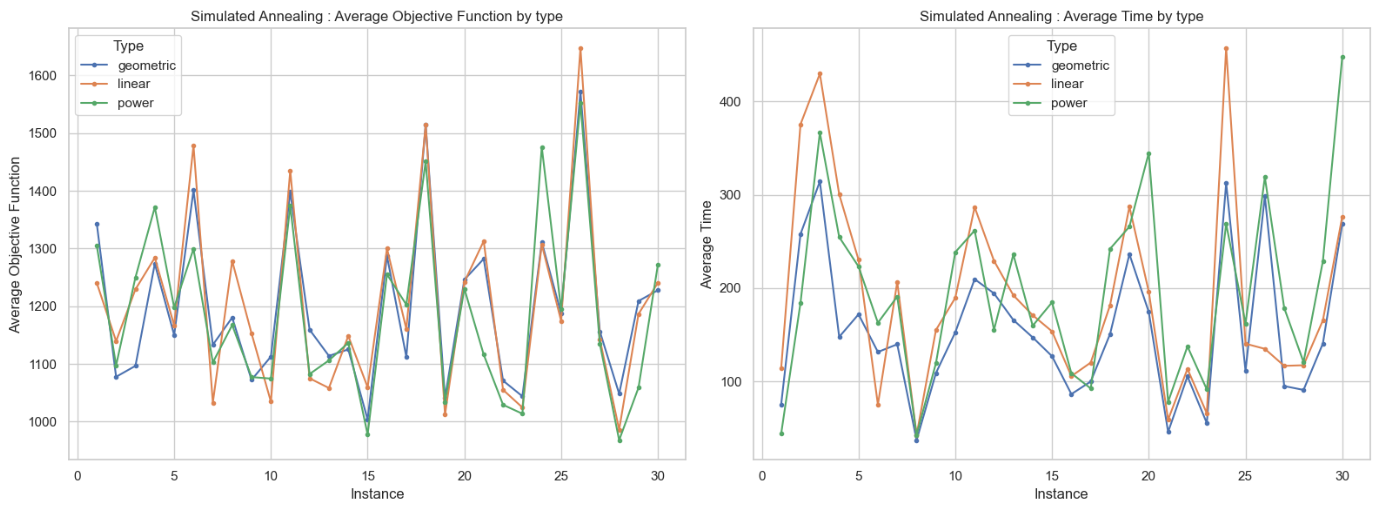
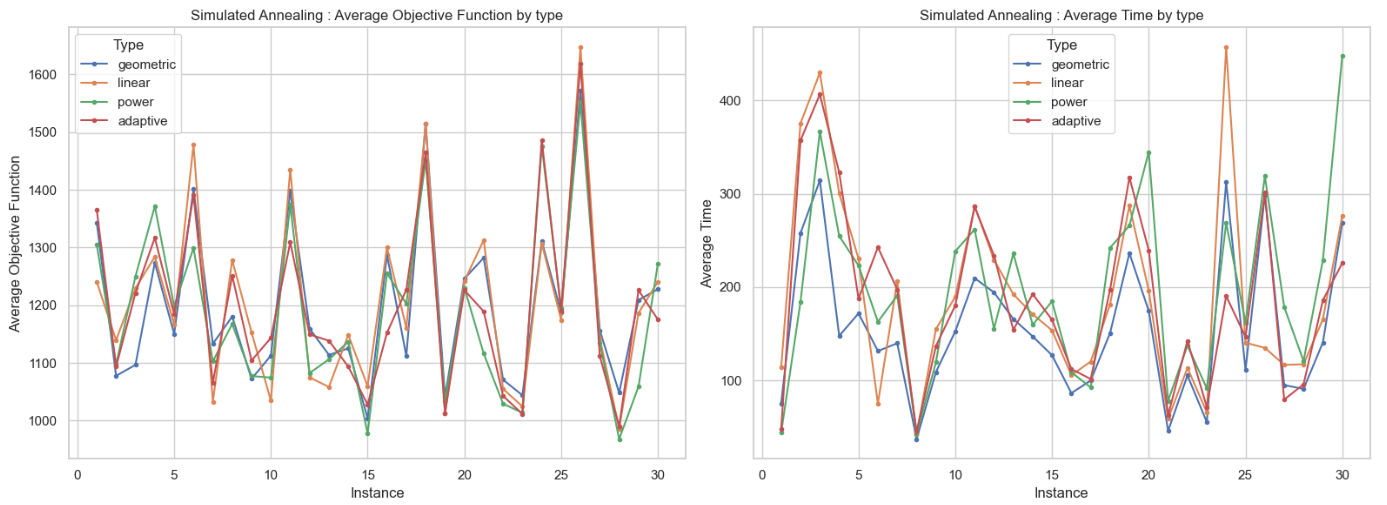
report new plots

diff --git a/Report 1/Report 1 - Group 3.tex b/Report 1/Report 1 - Group 3.tex
@@ -105,7 +105,9 @@ where $\rho$ controls the trade-off between efficiency and fairness.
 
 \subsection{Experimental Setup}
 
-All experiments were made on a machine with a AMD Ryzen 7 9800X3D and 32 RAM, running Windows 11 and Python 3.13.9.
+The experiments of instances with 50 customers for SA algorithm with different cooling strategies we made on machine with a AMD Ryzen 5 3500U and 8 RAM, running Windows 10 and Python 3.13.9. 
+
+All other experiments were made on a machine with a AMD Ryzen 7 9800X3D and 32 RAM, running Windows 11 and Python 3.13.9.
 
 We tested every algortihm on all of the instances with size 50 and 100. For every non-deterministic algorithm we made at least three runs in order to increase the significance of the results.
 
@@ -494,6 +496,13 @@ As it was with the local search, the variable neighborhood descent also performs
 
 The greedy randomized adaptive search procedure uses the randomized construction heuristic internally and has a fixed number of iterations without improvement as the stopping criteria. For improving on the received solution from the construction this algorithm uses variable neighborhood descent with its chosen default values.
 
+\begin{figure}[H]
+    \centering
+    \includegraphics[width=\linewidth]{graphics/comparison_grasp_vnd.png}
+    \caption{GRASP vs VND: Average Objective Function and Run Time for 100 customers}
+    \label{fig:comparison_grasp_vnd}
+\end{figure}
+
 \subsection{Simulated Annealing}
 
 The algorithm includes a neighborhood search for the customer swap, probabilistic controlled acceptance of worse solutions based on temperature, and several cooling schedules.
@@ -622,6 +631,32 @@ The SA loop terminates when any of the following conditions is met:
     \item No improvement has been observed for several temperature levels (predefined for the experiments by 8).
 \end{itemize}
 
+\subsubsection{Runtime}
+
+\[
+\textbf{Outer loop iterations}=O(I), \text{where } I =  max\_iters
+\]
+
+\[
+\textbf{Equilibrium Loop}=O(n^2), \text{where } n=number of customers
+\]
+
+\[
+\textbf{Select 2 random customers}=O(1)
+\]
+
+\[
+\textbf{Best insertion cost}=O(L^2), \text{where L is path length in worst case } L\approx n
+\]
+
+\[
+\textbf{Select 2 random customers}=O(1)
+\]
+
+\[
+\textbf{Total Runtime}=O(I n^4)
+\]
+
 \subsubsection{Best Solution Tracking}
 
 Throughout the search, the algorithm maintains the best feasible solution found.
@@ -675,17 +710,71 @@ For the comparison of all algorithms we chose the best configuration for each al
     \label{fig:all_algorithms_1_100}
 \end{figure}
 
-\section{Experimental Setup}
+\subsection{Fairness and Objective by Iterations}
 
-\paragraph{Hardware for comparison of all algorithms (50, 100 customers)}
+In Figures ~\ref{fig:f_obj_c}, ~\ref{fig:f_obj_rc}, ~\ref{fig:f_obj_ps}, ~\ref{fig:f_obj_ls}, ~\ref{fig:f_obj_vnd}, ~\ref{fig:f_obj_grasp}, ~\ref{fig:f_obj_sa}  the changes in fairness and objective values for instance 48 from the training set are displayed.
 
-\paragraph{Hardware for comparison of different cooling structures for SA (50 customers) }
+\subsubsection{Deterministic Construction Heuristic}
 
-\begin{itemize}
-    \item \textbf{Processor:} AMD Ryzen 5 3500U with Radeon Vega Mobile Graphics (8 cores), approximately 2.1 GHz
-    \item \textbf{Memory:} 8 GB RAM
-    \item \textbf{Operating System:} Windows 10 Pro 64-bit (Build 19045)
-    \item \textbf{DirectX Version:} DirectX 12
-\end{itemize}
+\begin{figure}[H]
+    \centering
+    \includegraphics[width=\linewidth]{graphics/f_obj_c.png}
+    \caption{Deterministic Construction Heuristic: Fairness and Objective by Iterations}
+    \label{fig:f_obj_c}
+\end{figure}
+
+\subsubsection{Randomized Construction Heuristic}
+
+\begin{figure}[H]
+    \centering
+    \includegraphics[width=\linewidth]{graphics/f_obj_rc.png}
+    \caption{Randomized Construction Heuristic: Fairness and Objective by Iterations}
+    \label{fig:f_obj_rc}
+\end{figure}
+
+\subsubsection{Pilot Search}
+
+\begin{figure}[H]
+    \centering
+    \includegraphics[width=\linewidth]{graphics/f_obj_ps.png}
+    \caption{Pilot Search: Fairness and Objective by Iterations}
+    \label{fig:f_obj_ps}
+\end{figure}
+
+\subsubsection{Local Search}
+
+\begin{figure}[H]
+    \centering
+    \includegraphics[width=\linewidth]{graphics/f_obj_ls.png}
+    \caption{Local Search: Fairness and Objective by Iterations}
+    \label{fig:f_obj_ls}
+\end{figure}
+
+\subsection{Variable Neighborhood Descent}
+
+\begin{figure}[H]
+    \centering
+    \includegraphics[width=\linewidth]{graphics/f_obj_vnd.png}
+    \caption{VND: Fairness and Objective by Iterations}
+    \label{fig:f_obj_vnd}
+\end{figure}
+
+\subsection{Greedy Randomized Adaptive Search Procedure}
+
+\begin{figure}[H]
+    \centering
+    \includegraphics[width=\linewidth]{graphics/f_obj_grasp.png}
+    \caption{GRASP: Fairness and Objective by Iterations}
+    \label{fig:f_obj_grasp}
+\end{figure}
+
+\subsection{Simulated Annealing}
+
+\begin{figure}[H]
+    \centering
+    \includegraphics[width=\linewidth]{graphics/f_obj_sa.png}
+    \caption{Simulated Annealing: Fairness and Objective by Iterations}
+    \label{fig:f_obj_sa}
+\end{figure}
 
 \end{document}
